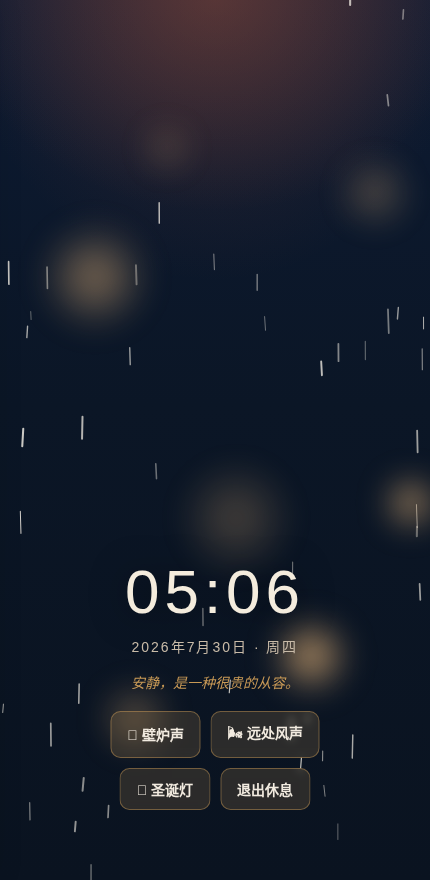
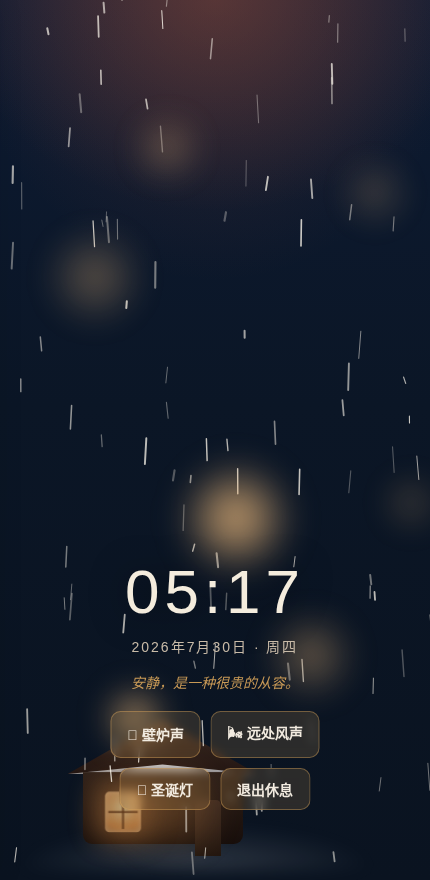
休息模式：雪量加密 + 新增「暴雪里的小木屋」暖光窗元素

diff --git a/index.html b/index.html
@@ -1127,6 +1127,31 @@ body[data-theme="dark"] .onboard-card{background:linear-gradient(135deg,#3A3020,
   filter:blur(.4px);opacity:.75;animation:twinkle 3.2s ease-in-out infinite;}
 .rest-ambient.xmas-on .rest-xmas{display:block;}
 @keyframes twinkle{0%,100%{opacity:.5}50%{opacity:.9}}
+/* 暴雪里的小木屋 */
+.rest-ambient .rest-cabin{position:absolute;left:15%;bottom:0;width:210px;height:180px;pointer-events:none;}
+.rest-ambient .cabin-ground{position:absolute;bottom:10px;left:-80px;right:-130px;height:64px;
+  background:radial-gradient(60% 100% at 50% 100%, rgba(228,236,245,.18), rgba(228,236,245,0) 72%);
+  filter:blur(8px);}
+.rest-ambient .cabin{position:absolute;bottom:36px;left:18px;width:160px;height:124px;}
+.rest-ambient .cabin-roof{position:absolute;top:0;left:-15px;right:-15px;height:54px;
+  background:linear-gradient(180deg,#3c2b23,#231612);clip-path:polygon(50% 0,100% 100%,0 100%);}
+.rest-ambient .cabin-roof .roof-snow{position:absolute;left:0;right:0;bottom:0;height:15px;
+  background:linear-gradient(180deg,rgba(240,246,252,.94),rgba(240,246,252,.5));
+  clip-path:polygon(50% 36%,100% 100%,0 100%);filter:blur(.3px);}
+.rest-ambient .cabin-body{position:absolute;top:52px;left:0;right:0;bottom:0;
+  background:linear-gradient(180deg,#2e2019,#170e0b);border-radius:0 0 9px 9px;
+  box-shadow:inset 0 1px 0 rgba(255,255,255,.05);}
+.rest-ambient .cabin-window{position:absolute;left:24px;top:22px;width:32px;height:36px;
+  background:radial-gradient(circle at 50% 38%, #ffe2a4, #e89a4e 68%, #c1742f);border-radius:4px;
+  box-shadow:0 0 24px 9px rgba(232,154,78,.6), inset 0 0 7px rgba(255,236,200,.65);
+  animation:breathe 6.5s ease-in-out infinite;}
+.rest-ambient .cabin-window::before,.rest-ambient .cabin-window::after{content:"";position:absolute;background:rgba(110,62,26,.72);}
+.rest-ambient .cabin-window::before{left:50%;top:3px;bottom:3px;width:2px;transform:translateX(-50%);}
+.rest-ambient .cabin-window::after{top:50%;left:3px;right:3px;height:2px;transform:translateY(-50%);}
+.rest-ambient .cabin-door{position:absolute;right:22px;top:28px;width:26px;height:56px;
+  background:linear-gradient(180deg,#3c291f,#22160f);border-radius:5px 5px 0 0;}
+.rest-ambient .cabin-glow{position:absolute;left:42px;bottom:22px;width:130px;height:96px;
+  background:radial-gradient(circle, rgba(232,154,78,.30), rgba(232,154,78,0) 70%);filter:blur(11px);}
 
 .rest-panel{position:fixed;z-index:45;left:50%;bottom:8%;transform:translateX(-50%);
   display:flex;flex-direction:column;align-items:center;gap:14px;text-align:center;color:#F2EBE0;pointer-events:auto;}
@@ -1232,6 +1257,17 @@ body.rest-mode #restAmbient{display:block;}
 <!-- 休息模式 · 魁北克冬夜 -->
 <div id="restAmbient" class="rest-ambient">
   <div class="rest-glow"></div>
+  <div class="rest-cabin" aria-hidden="true">
+    <div class="cabin-ground"></div>
+    <div class="cabin">
+      <div class="cabin-roof"><span class="roof-snow"></span></div>
+      <div class="cabin-body">
+        <div class="cabin-window"></div>
+        <div class="cabin-door"></div>
+      </div>
+    </div>
+    <div class="cabin-glow"></div>
+  </div>
   <canvas id="snowCanvas"></canvas>
   <div class="bokeh" style="left:11%;top:26%;width:96px;height:96px"></div>
   <div class="bokeh" style="left:79%;top:18%;width:70px;height:70px"></div>
@@ -7533,11 +7569,11 @@ function startSnow(){
   snowCtx=c.getContext("2d");snowCtx.scale(dpr,dpr);
   const W=window.innerWidth,H=window.innerHeight;
   const reduce=window.matchMedia&&window.matchMedia("(prefers-reduced-motion: reduce)").matches;
-  const n=reduce?16:48;
+  const n=reduce?30:110;
   snowParts=Array.from({length:n},()=>({
     x:Math.random()*W,y:Math.random()*H,
-    len:8+Math.random()*16,sp:0.3+Math.random()*0.7,
-    drift:(Math.random()-0.5)*0.5,a:0.35+Math.random()*0.5,w:0.8+Math.random()*1.3
+    len:6+Math.random()*22,sp:0.4+Math.random()*1.1,
+    drift:(Math.random()-0.5)*0.85,a:0.3+Math.random()*0.55,w:0.7+Math.random()*1.5
   }));
   function frame(){
     snowCtx.clearRect(0,0,W,H);

diff --git a/life.html b/life.html
@@ -1127,6 +1127,31 @@ body[data-theme="dark"] .onboard-card{background:linear-gradient(135deg,#3A3020,
   filter:blur(.4px);opacity:.75;animation:twinkle 3.2s ease-in-out infinite;}
 .rest-ambient.xmas-on .rest-xmas{display:block;}
 @keyframes twinkle{0%,100%{opacity:.5}50%{opacity:.9}}
+/* 暴雪里的小木屋 */
+.rest-ambient .rest-cabin{position:absolute;left:15%;bottom:0;width:210px;height:180px;pointer-events:none;}
+.rest-ambient .cabin-ground{position:absolute;bottom:10px;left:-80px;right:-130px;height:64px;
+  background:radial-gradient(60% 100% at 50% 100%, rgba(228,236,245,.18), rgba(228,236,245,0) 72%);
+  filter:blur(8px);}
+.rest-ambient .cabin{position:absolute;bottom:36px;left:18px;width:160px;height:124px;}
+.rest-ambient .cabin-roof{position:absolute;top:0;left:-15px;right:-15px;height:54px;
+  background:linear-gradient(180deg,#3c2b23,#231612);clip-path:polygon(50% 0,100% 100%,0 100%);}
+.rest-ambient .cabin-roof .roof-snow{position:absolute;left:0;right:0;bottom:0;height:15px;
+  background:linear-gradient(180deg,rgba(240,246,252,.94),rgba(240,246,252,.5));
+  clip-path:polygon(50% 36%,100% 100%,0 100%);filter:blur(.3px);}
+.rest-ambient .cabin-body{position:absolute;top:52px;left:0;right:0;bottom:0;
+  background:linear-gradient(180deg,#2e2019,#170e0b);border-radius:0 0 9px 9px;
+  box-shadow:inset 0 1px 0 rgba(255,255,255,.05);}
+.rest-ambient .cabin-window{position:absolute;left:24px;top:22px;width:32px;height:36px;
+  background:radial-gradient(circle at 50% 38%, #ffe2a4, #e89a4e 68%, #c1742f);border-radius:4px;
+  box-shadow:0 0 24px 9px rgba(232,154,78,.6), inset 0 0 7px rgba(255,236,200,.65);
+  animation:breathe 6.5s ease-in-out infinite;}
+.rest-ambient .cabin-window::before,.rest-ambient .cabin-window::after{content:"";position:absolute;background:rgba(110,62,26,.72);}
+.rest-ambient .cabin-window::before{left:50%;top:3px;bottom:3px;width:2px;transform:translateX(-50%);}
+.rest-ambient .cabin-window::after{top:50%;left:3px;right:3px;height:2px;transform:translateY(-50%);}
+.rest-ambient .cabin-door{position:absolute;right:22px;top:28px;width:26px;height:56px;
+  background:linear-gradient(180deg,#3c291f,#22160f);border-radius:5px 5px 0 0;}
+.rest-ambient .cabin-glow{position:absolute;left:42px;bottom:22px;width:130px;height:96px;
+  background:radial-gradient(circle, rgba(232,154,78,.30), rgba(232,154,78,0) 70%);filter:blur(11px);}
 
 .rest-panel{position:fixed;z-index:45;left:50%;bottom:8%;transform:translateX(-50%);
   display:flex;flex-direction:column;align-items:center;gap:14px;text-align:center;color:#F2EBE0;pointer-events:auto;}
@@ -1232,6 +1257,17 @@ body.rest-mode #restAmbient{display:block;}
 <!-- 休息模式 · 魁北克冬夜 -->
 <div id="restAmbient" class="rest-ambient">
   <div class="rest-glow"></div>
+  <div class="rest-cabin" aria-hidden="true">
+    <div class="cabin-ground"></div>
+    <div class="cabin">
+      <div class="cabin-roof"><span class="roof-snow"></span></div>
+      <div class="cabin-body">
+        <div class="cabin-window"></div>
+        <div class="cabin-door"></div>
+      </div>
+    </div>
+    <div class="cabin-glow"></div>
+  </div>
   <canvas id="snowCanvas"></canvas>
   <div class="bokeh" style="left:11%;top:26%;width:96px;height:96px"></div>
   <div class="bokeh" style="left:79%;top:18%;width:70px;height:70px"></div>
@@ -7533,11 +7569,11 @@ function startSnow(){
   snowCtx=c.getContext("2d");snowCtx.scale(dpr,dpr);
   const W=window.innerWidth,H=window.innerHeight;
   const reduce=window.matchMedia&&window.matchMedia("(prefers-reduced-motion: reduce)").matches;
-  const n=reduce?16:48;
+  const n=reduce?30:110;
   snowParts=Array.from({length:n},()=>({
     x:Math.random()*W,y:Math.random()*H,
-    len:8+Math.random()*16,sp:0.3+Math.random()*0.7,
-    drift:(Math.random()-0.5)*0.5,a:0.35+Math.random()*0.5,w:0.8+Math.random()*1.3
+    len:6+Math.random()*22,sp:0.4+Math.random()*1.1,
+    drift:(Math.random()-0.5)*0.85,a:0.3+Math.random()*0.55,w:0.7+Math.random()*1.5
   }));
   function frame(){
     snowCtx.clearRect(0,0,W,H);
